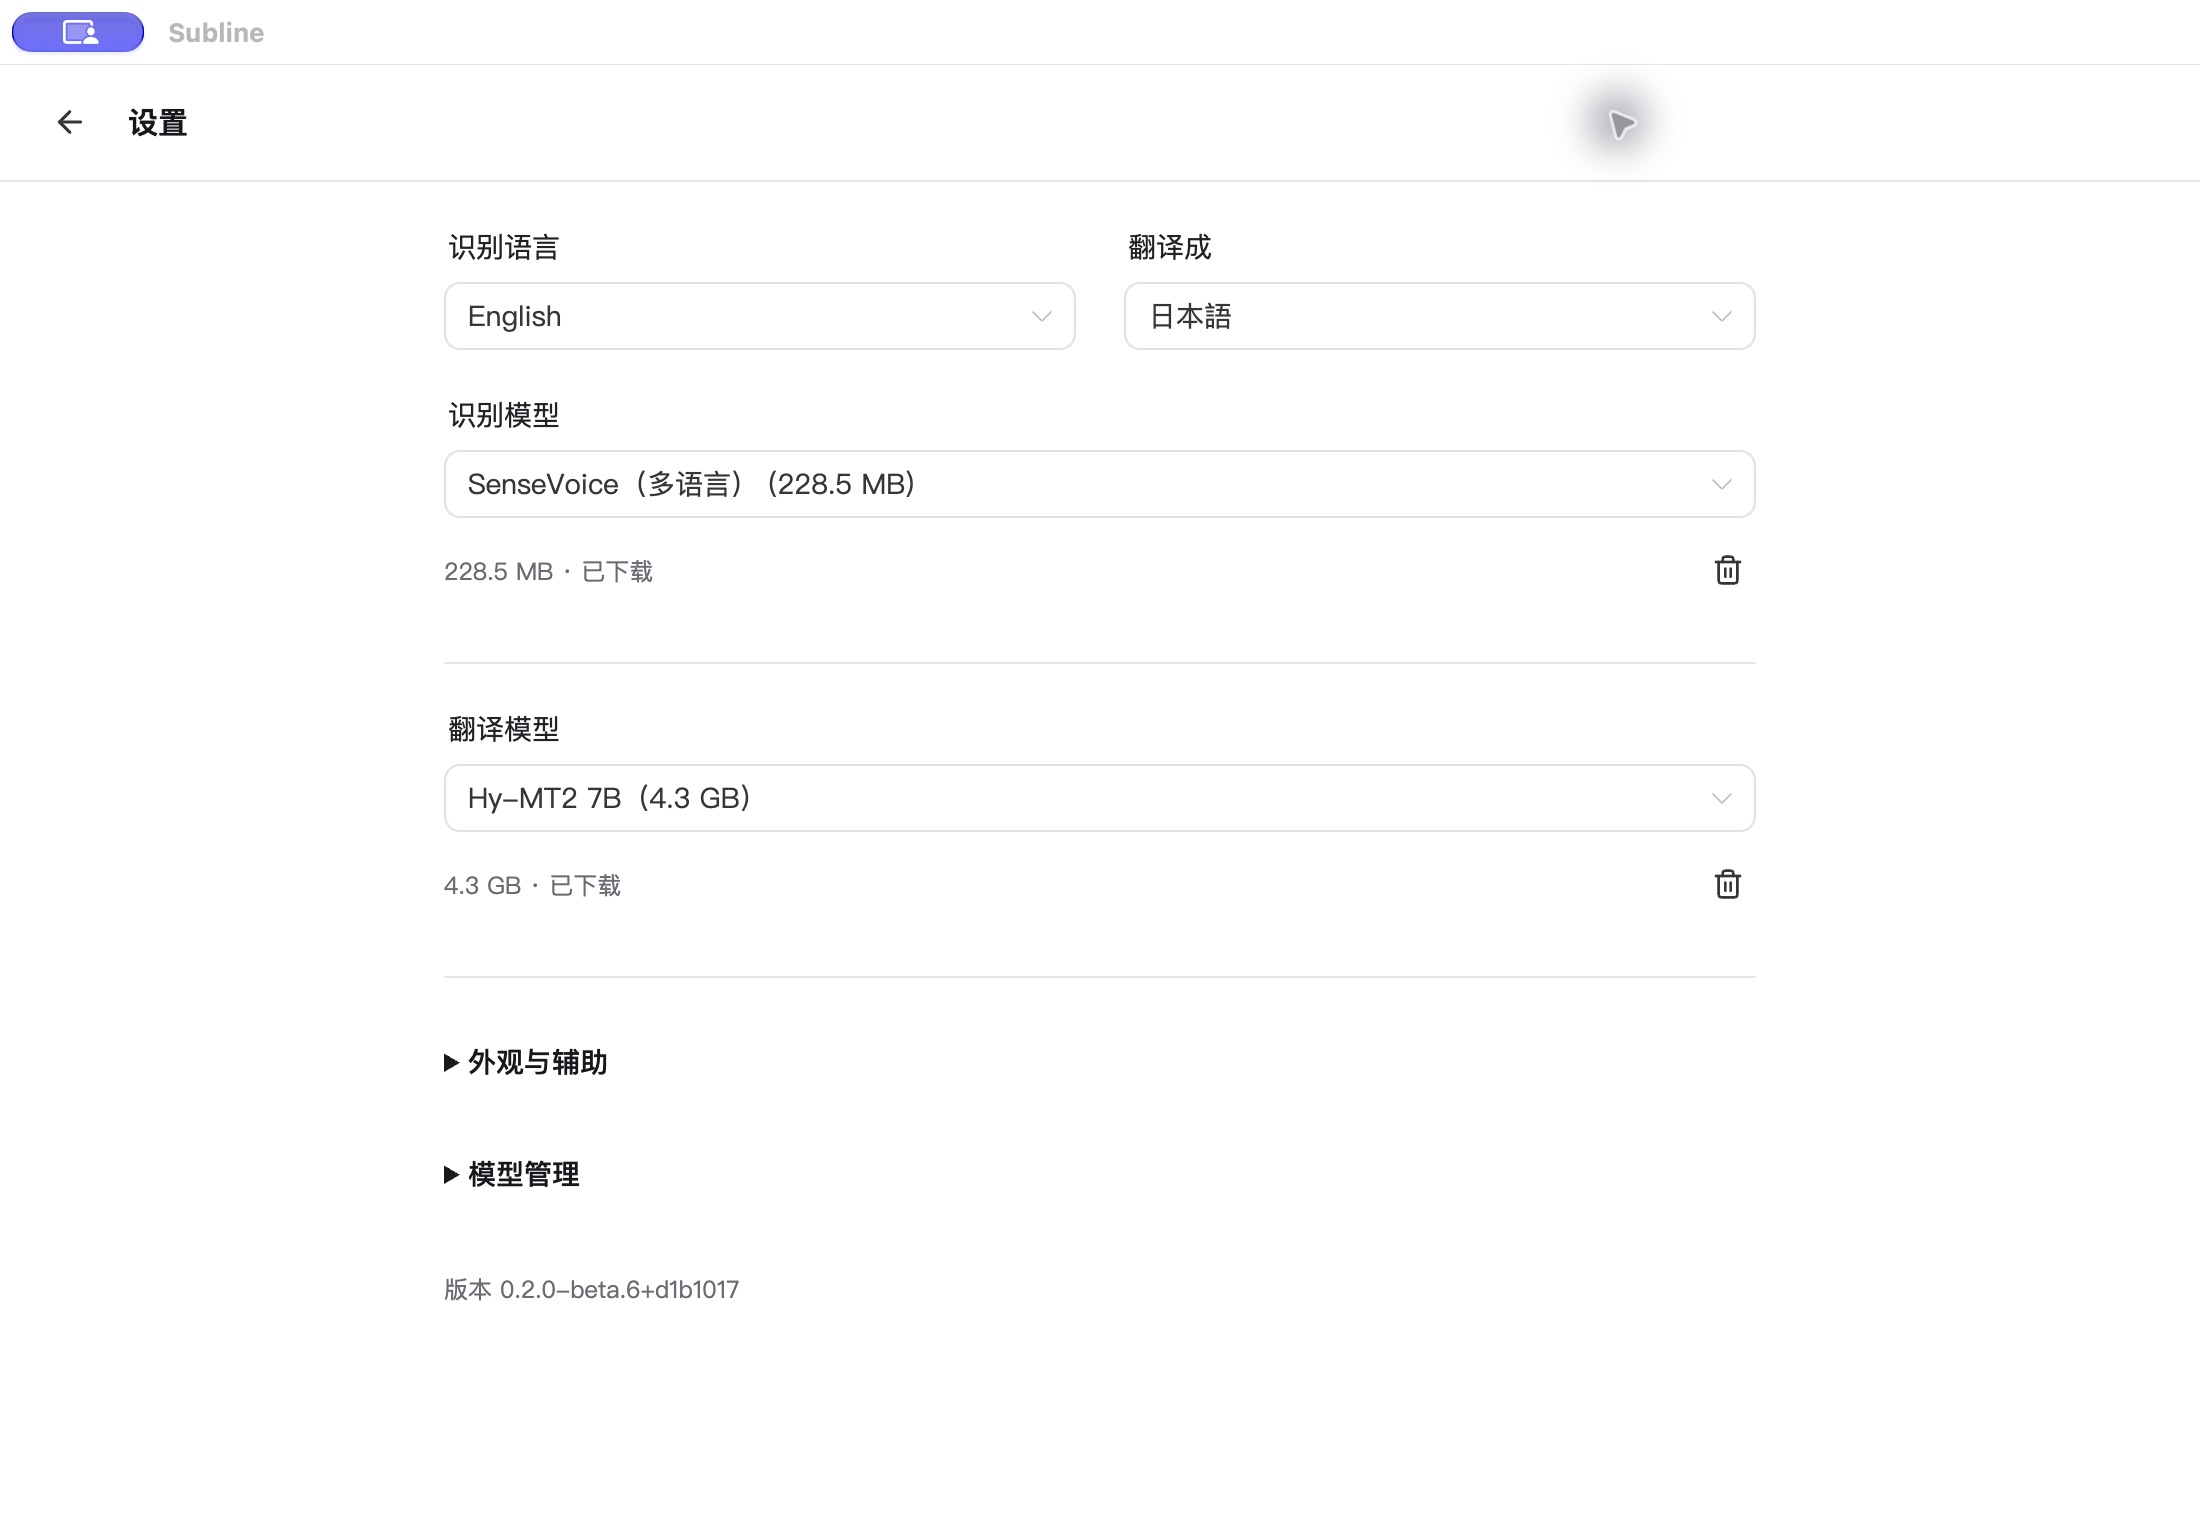
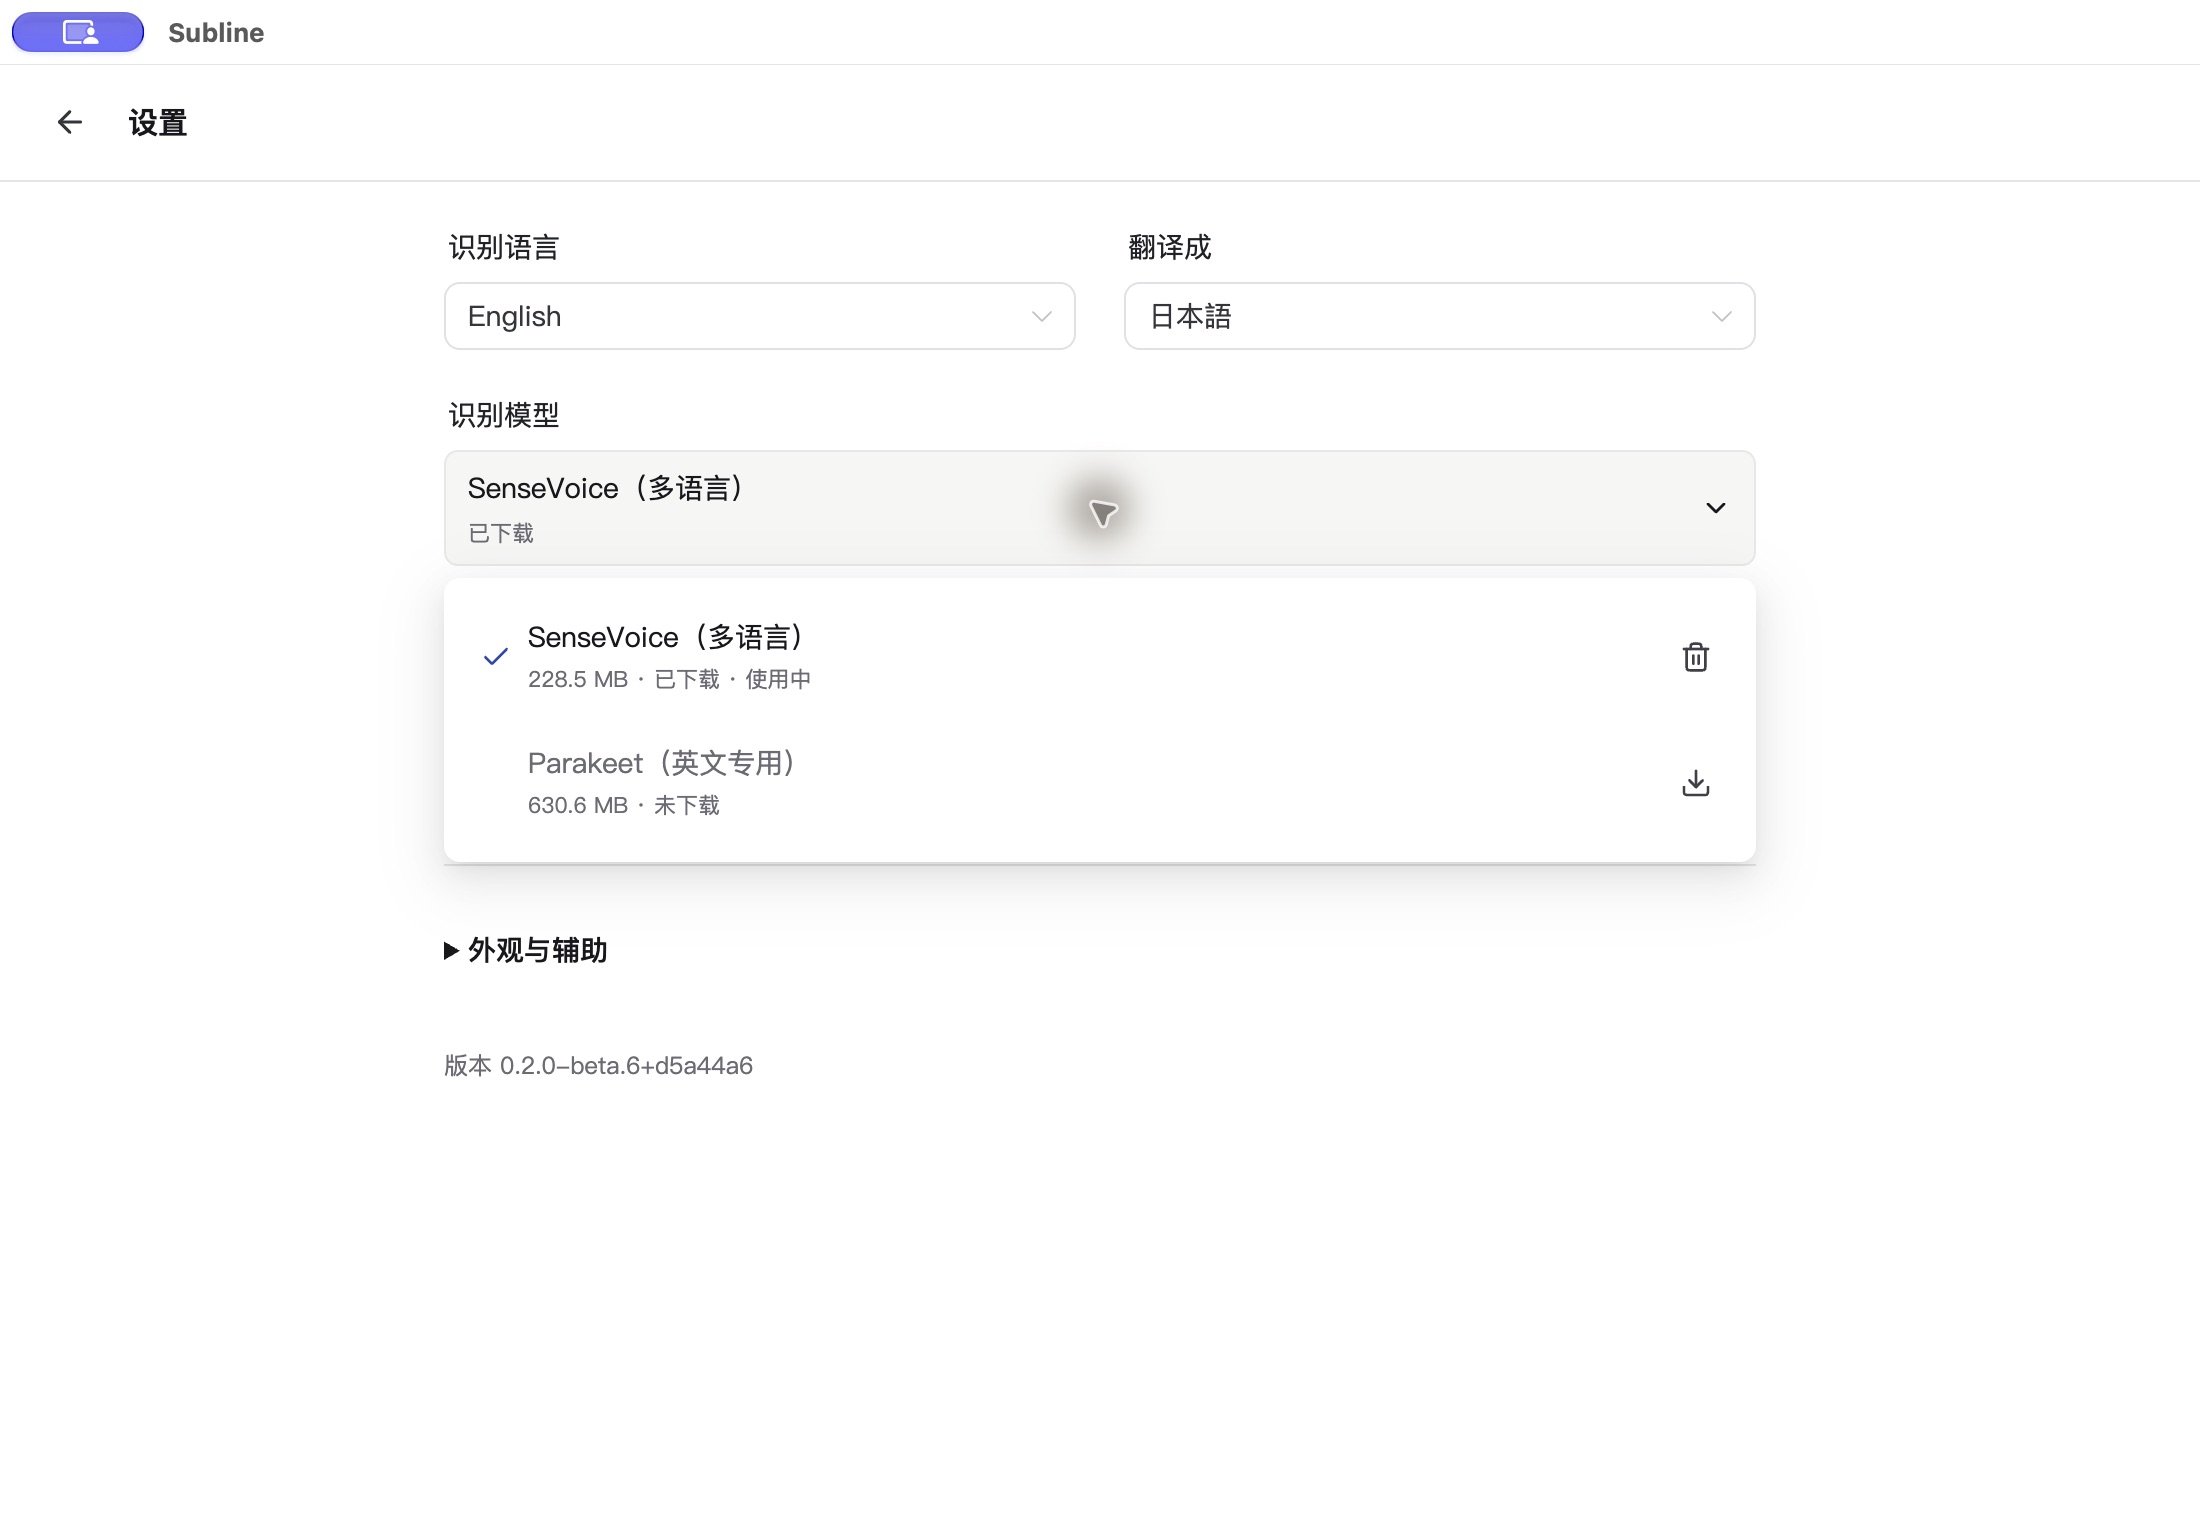
docs: show installed unified model controls after acceptance

diff --git a/README.md b/README.md
@@ -8,14 +8,16 @@
 
 ![Subline macOS live English captions and Japanese translations](docs/assets/subline-live-beta6.png)
 
-*Live captions in the locally installed beta.6 acceptance build: synthetic English test speech was captured through system audio and processed by the recognition and translation models. Output is unedited; this is not a benchmark. Beta.6 is not published; the public download below remains beta.5.*
+*Live captions in the locally installed beta.6+d5a44a6 acceptance build: synthetic English test speech was captured through system audio and processed by the recognition and translation models. Output is unedited; this is not a benchmark. This run reproduces a known issue: the second translation repeats the preceding context. Beta.6 is not published; the public download below remains beta.5.*
 
 <details>
-<summary>Settings: independent recognition and translation languages</summary>
+<summary>Settings: model selection, downloads and independent languages</summary>
 
-![Subline beta.6 settings with Chinese interface, English recognition and Japanese translation target](docs/assets/subline-settings-beta6.png)
+![Subline beta.6 recognition model picker with selection, download and delete controls](docs/assets/subline-settings-beta6.png)
 
-*The same locally installed beta.6 build, with both model choices directly on the settings page.*
+![Subline beta.6 translation model picker](docs/assets/subline-translation-models-beta6.png)
+
+*The same installed build. Each model picker combines selection, download status and download/delete controls; downloaded models can be selected directly.*
 
 </details>
 

diff --git a/README.zh-CN.md b/README.zh-CN.md
@@ -10,14 +10,16 @@
 
 ![Subline macOS 实时英语字幕与日语译文](docs/assets/subline-live-beta6.png)
 
-*本机已安装的 beta.6 验收构建：实际采集英语合成测试语音的系统音频，并由识别与翻译模型生成字幕。输出未经改写，不作为性能测量。Beta.6 尚未发布，下方公开下载仍为 beta.5。*
+*本机已安装的 beta.6+d5a44a6 验收构建：实际采集英语合成测试语音的系统音频，并由识别与翻译模型生成字幕。输出未经改写，不作为性能测量。本次复现了已知问题：第二段译文重复了上一段内容。Beta.6 尚未发布，下方公开下载仍为 beta.5。*
 
 <details>
-<summary>设置：识别语言与翻译目标独立选择</summary>
+<summary>设置：模型选择、下载管理与独立目标语言</summary>
 
-![Subline beta.6 中文界面、英语识别和日语翻译目标设置](docs/assets/subline-settings-beta6.png)
+![Subline beta.6 识别模型内直接选择、下载与删除](docs/assets/subline-settings-beta6.png)
 
-*同一本机 beta.6 构建；识别模型与翻译模型直接显示在设置首页。*
+![Subline beta.6 翻译模型选择器](docs/assets/subline-translation-models-beta6.png)
+
+*同一已安装构建；模型的选择、下载状态和下载／删除操作集中在各自的选择器中，已下载模型可直接选用。*
 
 </details>
 
